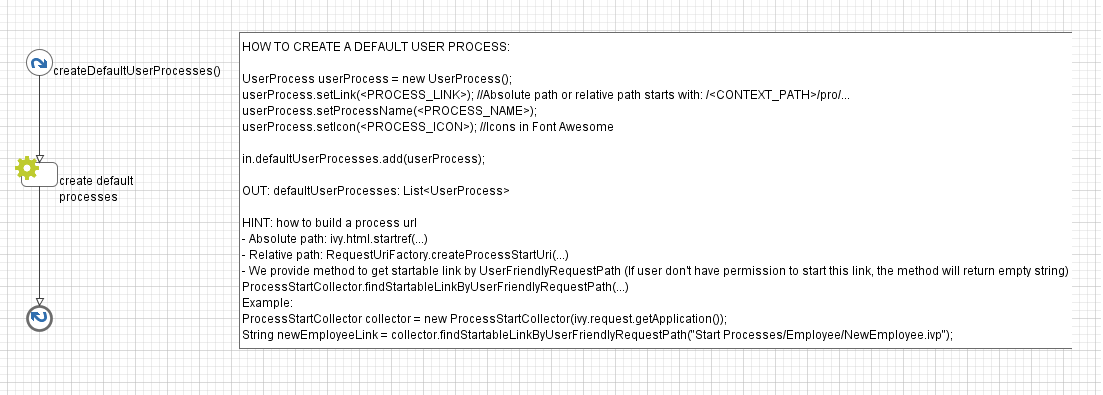
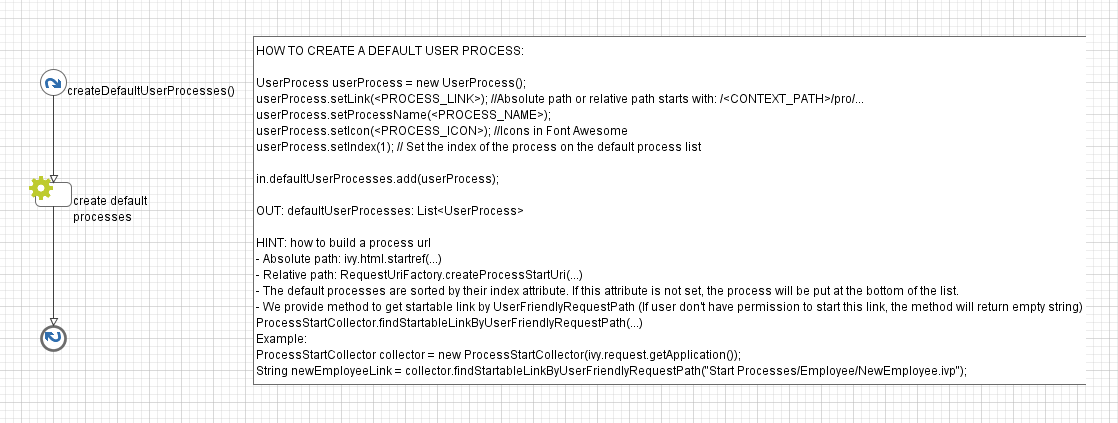
IVYPORTAL-4884 Option to disable sorting of favorite process starts - Added tooltip in edit mode - Updated doc - Implemeted sort alphabet button

diff --git a/AxonIvyPortal/PortalKit/src/ch/ivy/addon/portalkit/bean/ProcessWidgetBean.java b/AxonIvyPortal/PortalKit/src/ch/ivy/addon/portalkit/bean/ProcessWidgetBean.java
@@ -167,7 +167,7 @@ public class ProcessWidgetBean implements Serializable, Converter {
     return filteredUserProcesses;
   }
 
-  private void sortUserProcessList(List<UserProcess> processes) {
+  public void sortUserProcessList(List<UserProcess> processes) {
     processes.sort((process1, process2) -> process1.getProcessName().toLowerCase()
         .compareTo(process2.getProcessName().toLowerCase()));
   }
@@ -252,6 +252,7 @@ public class ProcessWidgetBean implements Serializable, Converter {
 
   public void switchEditMode() {
     editMode = !editMode;
+    userProcesses.sort(UserProcessIndexComparator.comparatorNullsLast(UserProcess::getIndex));
     clearSelectedUserProcess();
   }
 
